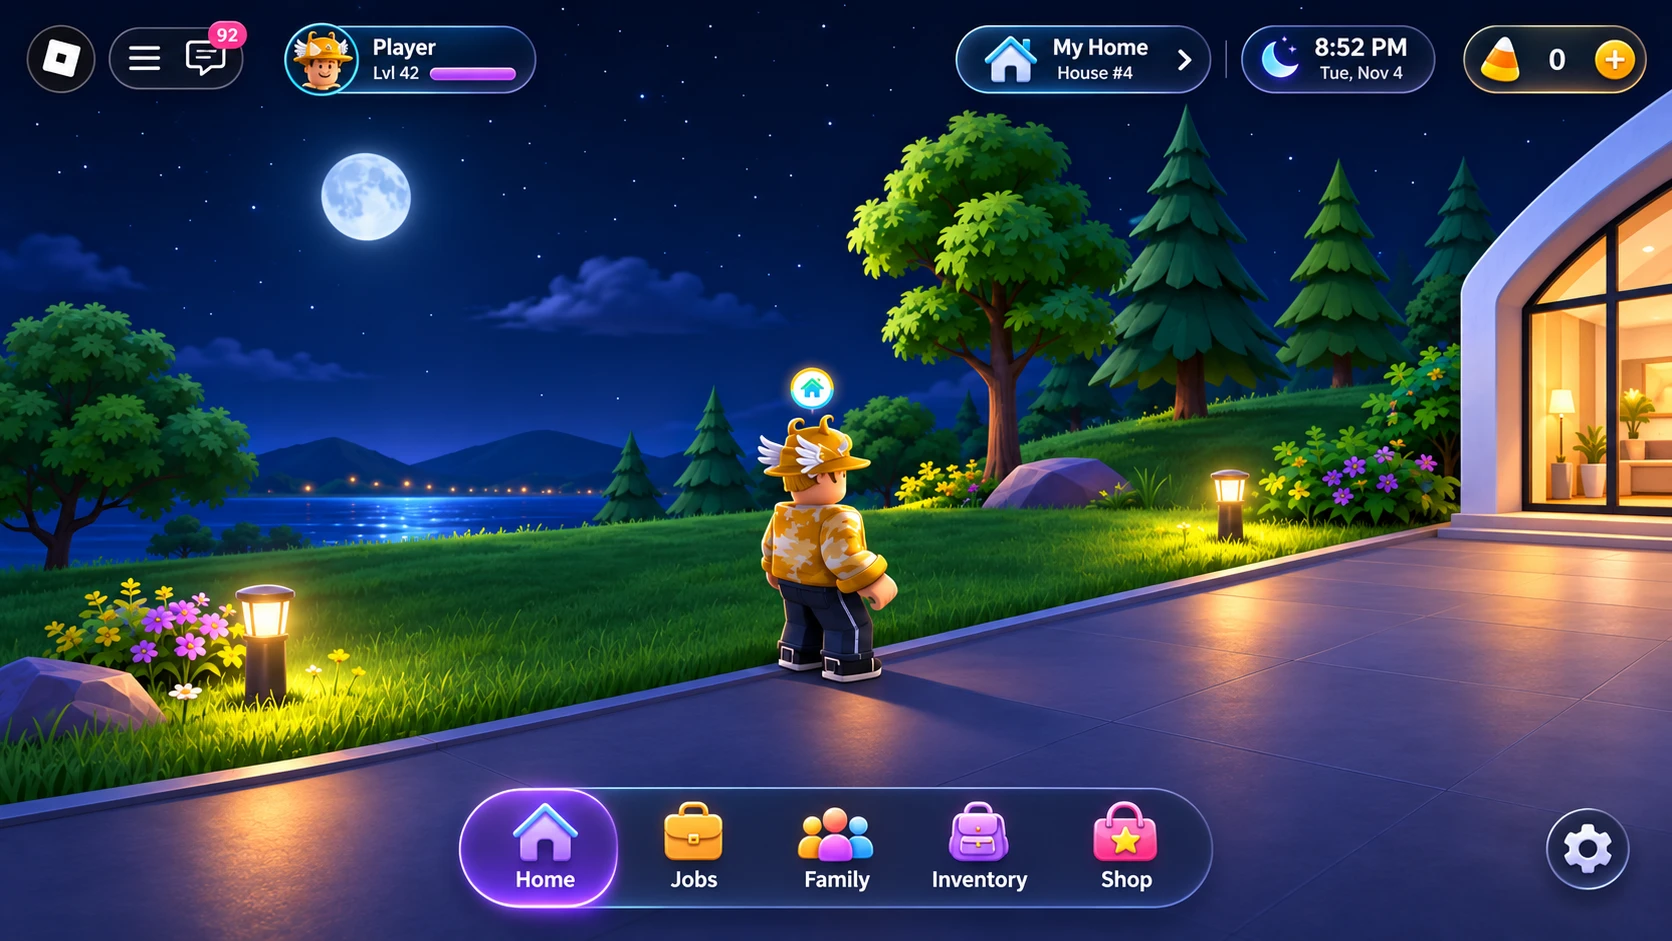
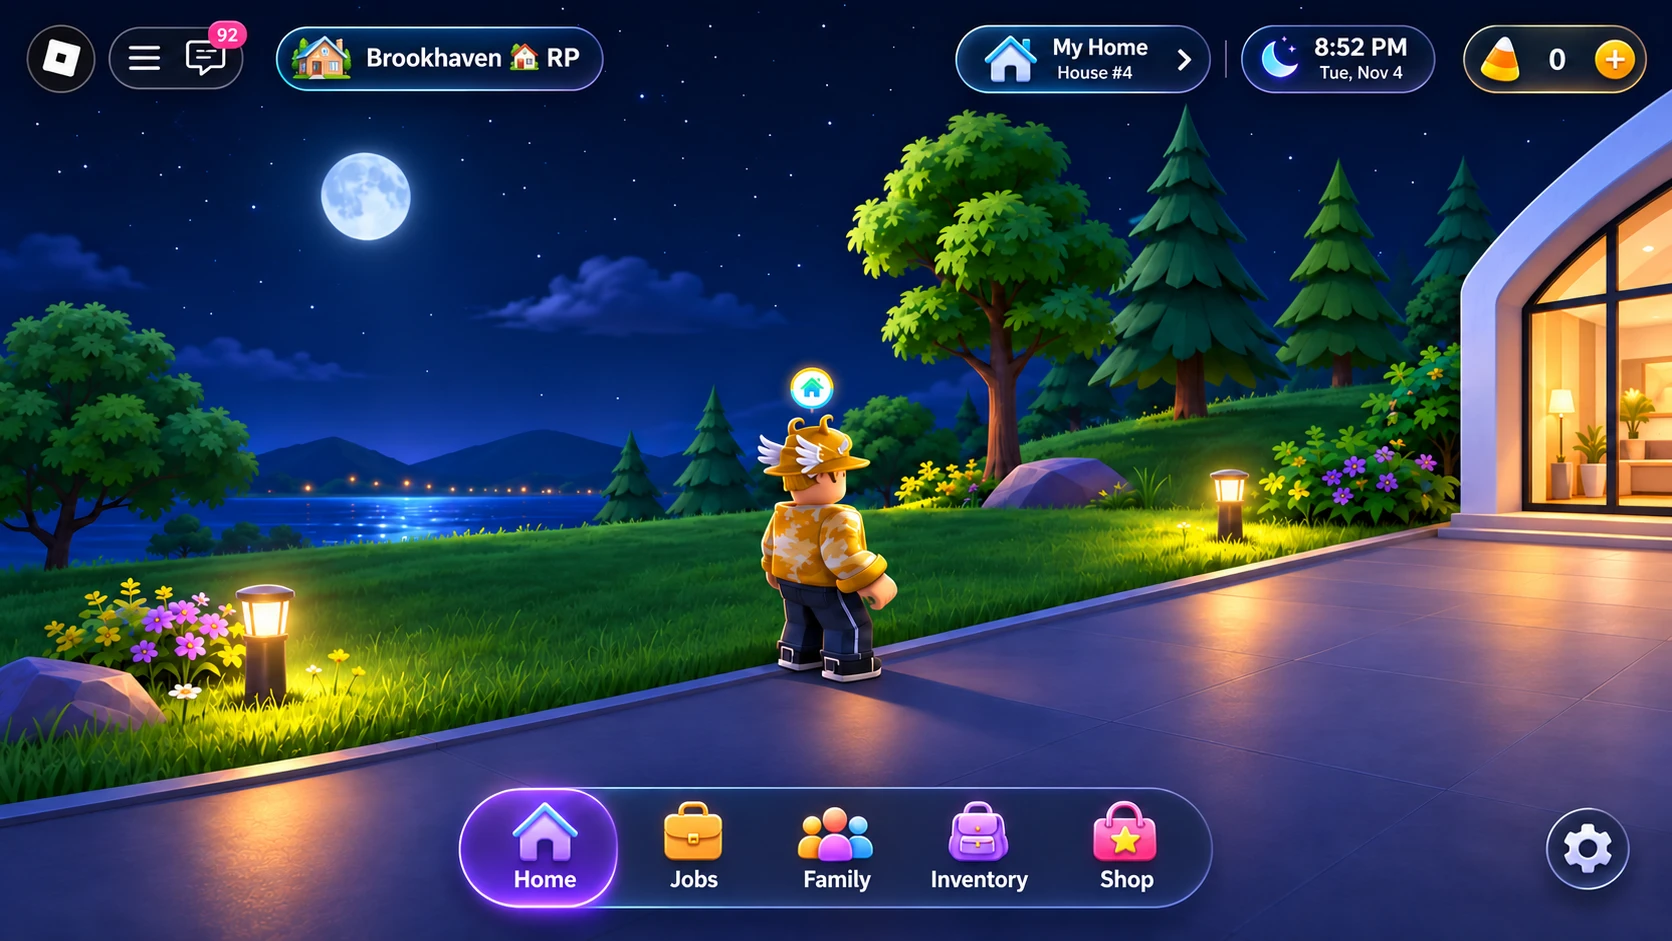
Brookhaven review: replace layout A mockup
New minimal-dock mockup with a game title chip in place of the level
bar; caption and placeholder note updated to match.

diff --git a/brookhaven-ux-review.html b/brookhaven-ux-review.html
@@ -644,9 +644,9 @@ footer{padding:28px 0 48px;color:var(--muted);font-size:14px}
     </div>
 
     <h3>Two visual directions</h3>
-    <p class="prose">I made these mockups for this review to explore how the cleanup could look. They aren't game screenshots, and some details are placeholders. For example, Brookhaven has no player level, so the level bar in A would become the RP name. B drops it.</p>
+    <p class="prose">I made these mockups for this review to explore how the cleanup could look. They aren't game screenshots, and icons, labels and values are placeholders. Neither one invents new systems: every tab and chip maps to a feature Brookhaven already has.</p>
     <div class="cols" style="grid-template-columns:1fr;gap:20px">
-      <figure class="shot"><a href="brookhaven-ux-assets/visual-dock.webp" target="_blank" rel="noopener"><img src="brookhaven-ux-assets/visual-dock.webp" alt="Mockup A: night scene with a minimal HUD, a bottom dock of five labelled tabs (Home, Jobs, Family, Inventory, Shop), status chips for home, time and currency at the top, and a separate settings button" loading="lazy" width="1672" height="941" style="aspect-ratio:1672/941"></a><figcaption><b>A · Minimal dock.</b> Five labelled tabs organised by goal: Home, Jobs, Family, Inventory, Shop. Status chips for where you live, the time and your currency sit at the top, and Settings is set apart. Most of the world stays visible. Best suited to touch.</figcaption></figure>
+      <figure class="shot"><a href="brookhaven-ux-assets/visual-dock.webp?v=2" target="_blank" rel="noopener"><img src="brookhaven-ux-assets/visual-dock.webp?v=2" alt="Mockup A: night scene with a minimal HUD: a Brookhaven RP title chip at the top left, chips for My Home House 4, time and date, and candy currency with a plus button at the top right, a bottom dock of five labelled tabs (Home, Jobs, Family, Inventory, Shop), and a separate settings button" loading="lazy" width="1672" height="941" style="aspect-ratio:1672/941"></a><figcaption><b>A · Minimal dock.</b> Five labelled tabs organised by goal: Home, Jobs, Family, Inventory, Shop. Across the top: a game title chip, a <i>My Home · House #4</i> shortcut that answers "what do I own and how do I get back", the time and date, and your currency with a clear <i>+</i> to top up. Settings sits apart in the corner. Everything else stays one tap away inside the tabs, so most of the world stays visible. Best suited to touch.</figcaption></figure>
       <figure class="shot"><a href="brookhaven-ux-assets/visual-full.webp?v=2" target="_blank" rel="noopener"><img src="brookhaven-ux-assets/visual-full.webp?v=2" alt="Mockup B: the same scene with a bottom dock of six labelled tabs (Home, Jobs, People, Inventory, Events, More), a right rail labelled Avatar, Clothing, Emotes, Vehicles and Housing, a left lane of Halloween event, Game Passes and Shop offer cards, a game title chip, time and currency at the top, and a labelled Settings button" loading="lazy" width="1672" height="941" style="aspect-ratio:1672/941"></a><figcaption><b>B · Full layout.</b> The same goal dock, extended to six tabs: Home, Jobs, People (family and friends together), Inventory, Events, and More for everything else. A right rail with one-word labels for the tools you use while playing: Avatar, Clothing, Emotes, Vehicles, Housing. The event and offers get their own clearly separate lane on the left, and the top bar keeps just the game name, time and currency. Easier to discover, but it covers more of the world. Better suited to desktop.</figcaption></figure>
     </div>
 
